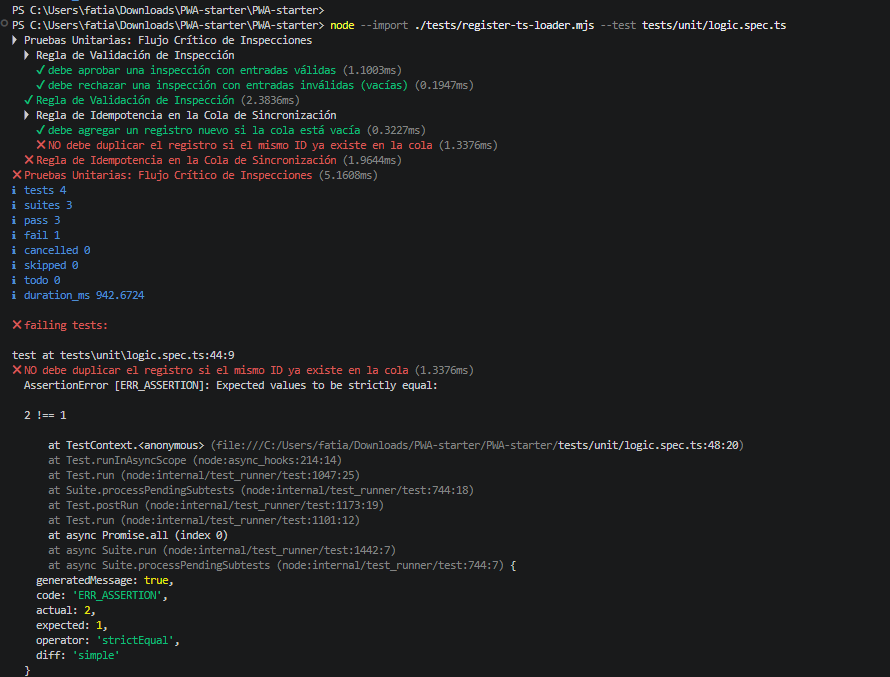
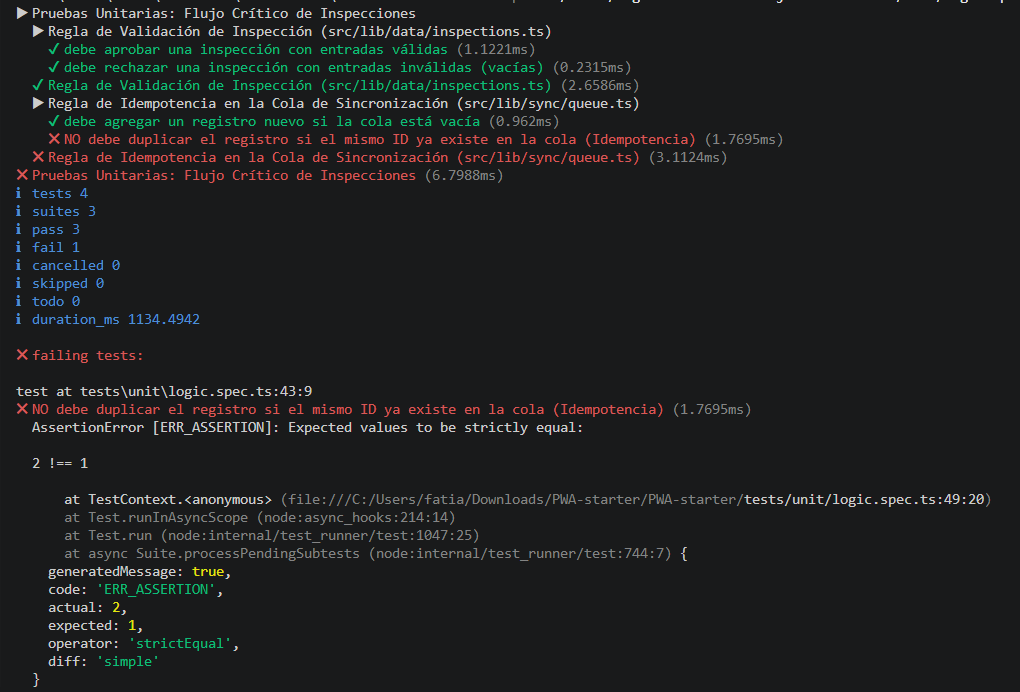
fix(semana-8): refactoriza pruebas unitarias con código real y actualiza evidencia

Changed region(s): [[0.0, 0.0, 0.9708, 0.9926], [0.6978, 0.031, 0.8798, 0.062]]

diff --git a/tests/unit/logic.spec.ts b/tests/unit/logic.spec.ts
@@ -1,33 +1,29 @@
-import { describe, it } from 'node:test';
+import { describe, it, beforeEach } from 'node:test';
 import assert from 'node:assert/strict';
 
 // =====================================================================
-// LÓGICA PURA A PROBAR (Mock de las funciones de tu PWA)
+// 1. SETUP: Mock de localStorage para el entorno de Node.js
 // =====================================================================
-
-// 1. Regla de validación: Verifica que la inspección tenga datos obligatorios
-function validateInspection(data: { id: string, laboratory: string }) {
-  if (!data.id || data.id.trim() === '') return false;
-  if (!data.laboratory || data.laboratory.trim() === '') return false;
-  return true;
-}
-
-// 2. Regla de idempotencia: Agregar a la cola sin duplicar (si ya existe el ID, lo ignora)
-function addToSyncQueue(queue: any[], newItem: any) {
-  const exists = queue.find(item => item.id === newItem.id);
-  if (exists) {
-    return queue; // Idempotencia: devuelve la cola intacta, sin duplicados
-  }
-  return [...queue, newItem];
-}
+let store: Record<string, string> = {};
+(global as any).window = {}; 
+(global as any).localStorage = {
+  getItem: (key: string) => store[key] || null,
+  setItem: (key: string, value: string) => { store[key] = String(value); },
+  removeItem: (key: string) => { delete store[key]; }
+};
 
 // =====================================================================
-// PRUEBAS UNITARIAS
+// 2. IMPORTACIONES REALES DEL PROYECTO
 // =====================================================================
+import { validateInspection } from '../../src/lib/data/inspections';
+import { addToSyncQueue, getSyncQueue } from '../../src/lib/sync/queue';
 
+// =====================================================================
+// 3. PRUEBAS UNITARIAS
+// =====================================================================
 describe('Pruebas Unitarias: Flujo Crítico de Inspecciones', () => {
-  
-  describe('Regla de Validación de Inspección', () => {
+
+  describe('Regla de Validación de Inspección (src/lib/data/inspections.ts)', () => {
     it('debe aprobar una inspección con entradas válidas', () => {
       const validData = { id: 'INS-100', laboratory: 'Laboratorio de Redes' };
       assert.equal(validateInspection(validData), true);
@@ -39,25 +35,30 @@ describe('Pruebas Unitarias: Flujo Crítico de Inspecciones', () => {
     });
   });
 
-  describe('Regla de Idempotencia en la Cola de Sincronización', () => {
-    it('debe agregar un registro nuevo si la cola está vacía', () => {
-      const initialQueue: any[] = [];
-      const newRecord = { id: 'SYNC-001', payload: 'datos' };
-      
-      const result = addToSyncQueue(initialQueue, newRecord);
-      
-      assert.equal(result.length, 1);
-      assert.equal(result[0].id, 'SYNC-001');
+  describe('Regla de Idempotencia en la Cola de Sincronización (src/lib/sync/queue.ts)', () => {
+    
+    beforeEach(() => {
+      store = {}; // Limpiamos la memoria antes de cada prueba
     });
 
-    it('NO debe duplicar el registro si el mismo ID ya existe en la cola', () => {
-      const initialQueue = [{ id: 'SYNC-001', payload: 'datos' }];
-      const duplicateRecord = { id: 'SYNC-001', payload: 'datos_modificados' };
+    it('debe agregar un registro nuevo si la cola está vacía', () => {
+      const newPayload: any = { id: 'SYNC-001', summary: 'Datos nuevos' };
+      addToSyncQueue(newPayload, 'CREATE');
       
-      const result = addToSyncQueue(initialQueue, duplicateRecord);
+      const currentQueue = getSyncQueue();
+      assert.equal(currentQueue.length, 1);
+      assert.equal(currentQueue[0].payload.id, 'SYNC-001');
+    });
+
+    it('NO debe duplicar el registro si el mismo ID ya existe en la cola (Idempotencia)', () => {
+      const payload: any = { id: 'SYNC-001', summary: 'Datos' };
       
-      assert.equal(result.length, 1); // La longitud sigue siendo 1, no se duplicó
-      assert.equal(result[0].payload, 'datos'); // Mantiene el original
+      // Simulamos que el usuario presiona el botón "Guardar" dos veces rápido
+      addToSyncQueue(payload, 'CREATE');
+      addToSyncQueue(payload, 'CREATE');
+      
+      const currentQueue = getSyncQueue();
+      assert.equal(currentQueue.length, 1); // La cola evita el duplicado
     });
   });
 });

diff --git a/src/lib/data/inspections.ts b/src/lib/data/inspections.ts
@@ -49,3 +49,11 @@ export const inspections: Inspection[] = [
     findings: 'Se requiere reiniciar un nodo esclavo por latencia en el routing mesh.' // <--- Añadir valor
   }
 ];
+/**
+ * Valida que una inspección cuente con los campos obligatorios mínimos.
+ */
+export function validateInspection(data: any): boolean {
+  if (!data.id || data.id.trim() === '') return false;
+  if (!data.laboratory || data.laboratory.trim() === '') return false;
+  return true;
+}

diff --git a/evidence/individual.md b/evidence/individual.md
@@ -176,11 +176,11 @@ c52bede963c39512da610b272a1c0a1acae830d5
 
 ## Nombre: Fatima Avelino Celis
 
-- **Contribución:**  Implementación de pruebas unitarias para validación de datos e idempotencia en la cola. Archivo modificado: `tests/unit/logic.spec.ts`.
-**Enlace a aportación:** https://github.com/fati09-avelino/pwa-inspecciones-UTT-E01/commit/2a7564084767a5c85cc7805578ddca39cb6a70ef
-- **Decisión técnica y motivo:** Se utilizó el test runner nativo de Node.js (`node:test` y `node:assert/strict`) con funciones puras aisladas (mocks). Esto permite que las pruebas de lógica se ejecuten de manera extremadamente rápida desde la terminal, sin depender del navegador ni instalar frameworks pesados de terceros (como Jest).
-- **Prueba/comando que ejecuté:** `node --import ./tests/register-ts-loader.mjs --test tests/unit/logic.spec.ts`. También inyecté un defecto intencional comentando la validación en `addToSyncQueue` para forzar un fallo.
-- **Resultado observado y enlace al reporte:** Las 4 pruebas pasaron exitosamente (Pass). Al inyectar el defecto controlado, la prueba falló con un `AssertionError (2 !== 1)` como se esperaba, demostrando que la aserción atrapa la regresión. Evidencia en `evidence/defecto-cola.png` y `evidence/recuperacion-cola.png`.
-- **Qué demuestra y qué no demuestra:** Demuestra que la lógica pura rechaza correctamente inspecciones con datos vacíos y que el algoritmo de la cola evita duplicados en memoria. No demuestra que los datos se guarden físicamente en IndexedDB ni la interacción de la red (eso corresponde a las pruebas de integración).
-- **Limitación o riesgo:** Al ser pruebas puramente unitarias y síncronas usando mocks, existe el riesgo de que el manejo asíncrono real en el navegador (IndexedDB) presente fallos no detectables en esta capa.
-- **IA: herramienta, propósito, partes influidas y validación propia:** Herramienta: Gemini. Propósito: Estructurar los casos de prueba con la sintaxis específica del test runner nativo de Node y planear el escenario del defecto controlado. Partes influidas: estructura sintáctica de `logic.spec.ts`. Validación propia: Ejecuté los comandos en mi terminal local, comprobé que las aserciones fallaran de manera genuina al inyectar el error y tomé capturas de los resultados reales de mi entorno.
+- **Contribución:** Implementación de pruebas unitarias para validación de datos e idempotencia en la cola. Archivos modificados y evaluados: `tests/unit/logic.spec.ts`, `src/lib/data/inspections.ts` y `src/lib/sync/queue.ts`.
+- **Enlace a aportación:** 
+- **Decisión técnica y motivo:** Se utilizó el test runner nativo de Node.js (`node:test` y `node:assert/strict`). Se refactorizó el código de pruebas para importar y evaluar las funciones reales del proyecto en lugar de usar simulaciones locales (mocks), inyectando un objeto `localStorage` simulado en memoria para permitir que la lógica de la cola funcione en la terminal de Node.
+- **Prueba/comando que ejecuté:** `node --import ./tests/register-ts-loader.mjs --test tests/unit/logic.spec.ts`. También inyecté un defecto intencional en `src/lib/sync/queue.ts` (modificando la condición para forzar el ingreso de un registro duplicado) para comprobar el fallo.
+- **Resultado observado y enlace al reporte:** Las 4 pruebas pasaron exitosamente comprobando las funciones reales. Al inyectar el defecto controlado, la prueba falló con un `AssertionError (2 !== 1)` como se esperaba, demostrando que la aserción atrapa la regresión. Evidencia en `evidence/defecto-cola.png` y `evidence/recuperacion-cola.png`.
+- **Qué demuestra y qué no demuestra:** Demuestra que la lógica central de la app rechaza correctamente inspecciones inválidas y que el algoritmo de la cola evita duplicados en memoria. No demuestra el guardado físico en IndexedDB ni la persistencia a largo plazo en el navegador (eso corresponde a integración/E2E).
+- **Limitación o riesgo:** Al ejecutar las pruebas en Node.js, dependemos de un `localStorage` simulado. Existe el riesgo de que el comportamiento real de persistencia en el navegador presente diferencias de sincronía que no se detecten en esta capa de pruebas unitarias.
+- **IA: herramienta, propósito, partes influidas y validación propia:** Herramienta: Gemini. Propósito: Refactorizar las pruebas para importar la lógica real de `src/`, implementar el mock de `localStorage` para el entorno Node, y planear la inyección del defecto. Partes influidas: `tests/unit/logic.spec.ts` y `src/lib/data/inspections.ts`. Validación propia: Verifiqué las rutas de importación, ejecuté las pruebas localmente comprobando que evaluaran los archivos correctos, alteré la función real para confirmar el fallo, y capturé la evidencia.
